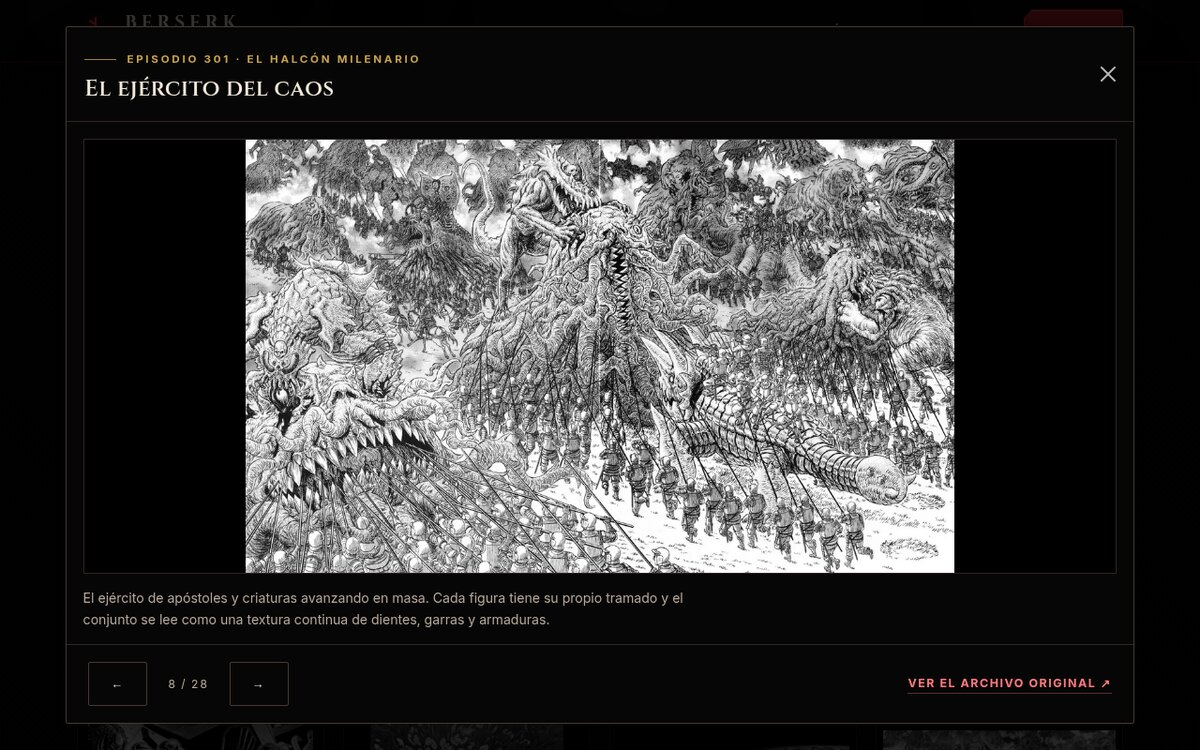
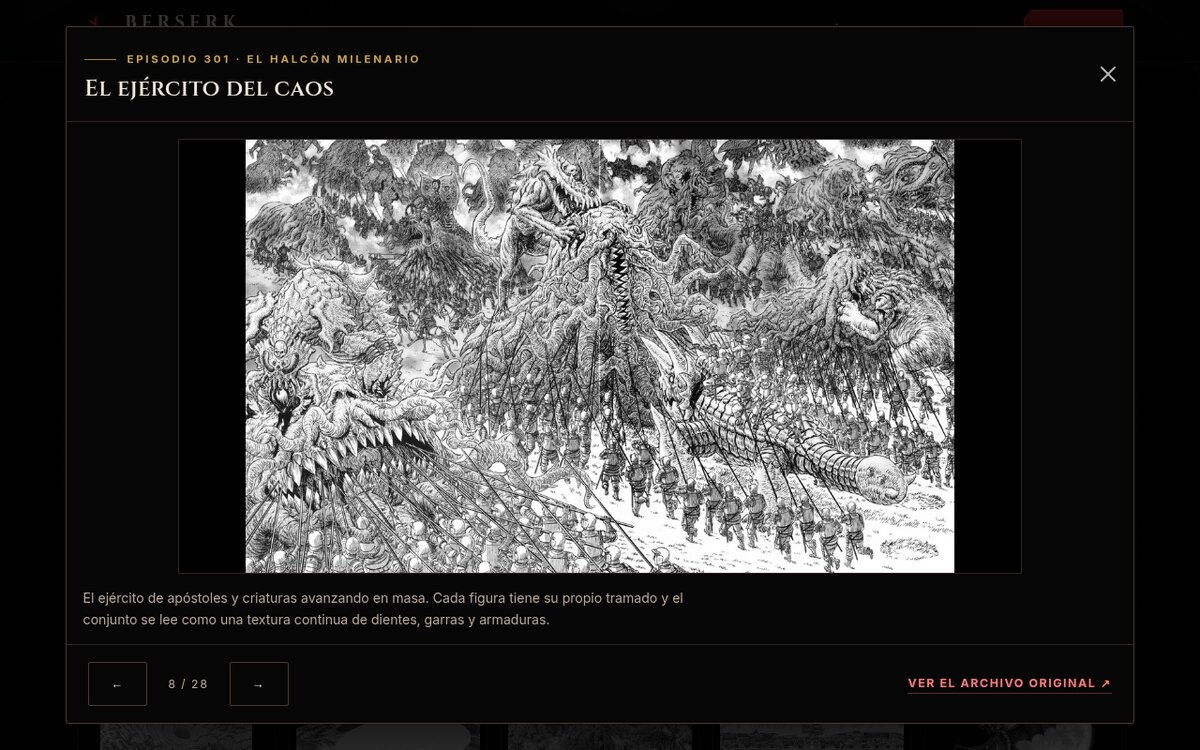
Reducir el tamaño de las láminas y del visor
- Rejilla más densa: 6 columnas en pantallas grandes, 5, 4, 3 y 2
  según el ancho, con tarjetas de ~200 px y el mismo margen
- Episodio en un cuadrito sobre la esquina de la imagen y arco en
  pastilla debajo, para que todas las tarjetas midan lo mismo
- Títulos a 2 líneas (3 en móvil) sin recortes ni saltos de altura
- Visor limitado a 900 px para no ampliar la imagen más allá de su
  resolución real
- Capturas del README actualizadas

Changed region(s): [[0.0617, 0.9507, 0.4008, 1.0], [0.4933, 0.9507, 0.7708, 1.0], [0.7708, 0.9507, 0.925, 1.0]]

diff --git a/assets/css/estilos.css b/assets/css/estilos.css
@@ -1137,7 +1137,8 @@ strong { color: #fff8ec; }
 
 .emi-galeria-hero__lamina {
   position: relative;
-  margin: 0;
+  max-width: 520px;
+  margin: 0 auto;
   overflow: hidden;
   border: 1px solid var(--emi-borde-claro);
   background: #0a0807;
@@ -1276,8 +1277,8 @@ strong { color: #fff8ec; }
 /* Rejilla uniforme: todas las láminas miden lo mismo, con el mismo margen. */
 .emi-rejilla-paneles {
   display: grid;
-  grid-template-columns: repeat(4, minmax(0, 1fr));
-  gap: 1.25rem;
+  grid-template-columns: repeat(6, minmax(0, 1fr));
+  gap: .9rem;
 }
 
 .emi-lamina {
@@ -1397,6 +1398,19 @@ strong { color: #fff8ec; }
 .emi-pastilla--arco {
   border-color: rgba(201, 162, 74, .45);
   color: var(--emi-oro);
+}
+
+/* Episodio: cuadrito sobre la esquina de la lámina. */
+.emi-pastilla--episodio {
+  position: absolute;
+  top: .55rem;
+  left: .55rem;
+  z-index: 1;
+  border-color: rgba(239, 231, 216, .35);
+  background: rgba(7, 6, 6, .82);
+  color: var(--emi-hueso);
+  -webkit-backdrop-filter: blur(6px);
+  backdrop-filter: blur(6px);
 }
 
 .emi-lamina__titulo {
@@ -1521,6 +1535,8 @@ strong { color: #fff8ec; }
 .emi-visor img {
   display: block;
   width: 100%;
+  max-width: 900px;
+  margin-inline: auto;
   max-height: 58vh;
   object-fit: contain;
   background: #000;
@@ -1546,8 +1562,16 @@ strong { color: #fff8ec; }
   font-variant-numeric: tabular-nums;
 }
 
-/* Adaptación de la galería. */
+/* Adaptación de la galería: muchas columnas, tarjetas pequeñas. */
+@media (max-width: 1399.98px) {
+  .emi-rejilla-paneles { grid-template-columns: repeat(5, minmax(0, 1fr)); }
+}
+
 @media (max-width: 1199.98px) {
+  .emi-rejilla-paneles { grid-template-columns: repeat(4, minmax(0, 1fr)); }
+}
+
+@media (max-width: 991.98px) {
   .emi-rejilla-paneles { grid-template-columns: repeat(3, minmax(0, 1fr)); }
 }
 
@@ -1555,9 +1579,16 @@ strong { color: #fff8ec; }
   .emi-rejilla-paneles { grid-template-columns: repeat(2, minmax(0, 1fr)); }
   .emi-cinta__pista img { width: 88px; height: 88px; }
   .emi-galeria-hero__lamina { margin-top: .5rem; }
+  /* Pastillas y títulos compactos: todo cabe y las tarjetas no crecen. */
+  .emi-pastilla { padding: .18rem .4rem; font-size: .53rem; letter-spacing: .06em; }
+  .emi-lamina__titulo {
+    font-size: .92rem;
+    -webkit-line-clamp: 3;
+    min-height: 3.75em;
+  }
 }
 
-@media (max-width: 479.98px) {
+@media (max-width: 359.98px) {
   .emi-rejilla-paneles { grid-template-columns: 1fr; }
   .emi-toolbar-galeria { align-items: stretch; }
 }

diff --git a/assets/js/galeria.js b/assets/js/galeria.js
@@ -72,7 +72,7 @@
     var imagen = document.createElement("img");
     imagen.src = panel.archivo + "-min.webp";
     imagen.srcset = panel.archivo + "-min.webp 520w, " + panel.archivo + ".webp 1100w";
-    imagen.sizes = "(min-width: 1200px) 23vw, (min-width: 768px) 31vw, (min-width: 480px) 46vw, 92vw";
+    imagen.sizes = "(min-width: 1400px) 16vw, (min-width: 1200px) 19vw, (min-width: 992px) 23vw, (min-width: 768px) 31vw, (min-width: 480px) 46vw, 92vw";
     imagen.width = panel.ancho;
     imagen.height = panel.alto;
     imagen.alt = panel.alt;
@@ -84,7 +84,11 @@
     lupa.setAttribute("aria-hidden", "true");
     lupa.textContent = "⤢";
 
-    media.append(imagen, lupa);
+    var episodio = document.createElement("span");
+    episodio.className = "emi-pastilla emi-pastilla--episodio";
+    episodio.textContent = etiquetaEpisodio(panel);
+
+    media.append(imagen, lupa, episodio);
 
     var cuerpo = document.createElement("div");
     cuerpo.className = "emi-lamina__cuerpo";
@@ -92,15 +96,11 @@
     var meta = document.createElement("p");
     meta.className = "emi-lamina__meta";
 
-    var episodio = document.createElement("span");
-    episodio.className = "emi-pastilla";
-    episodio.textContent = etiquetaEpisodio(panel);
-
     var arco = document.createElement("span");
     arco.className = "emi-pastilla emi-pastilla--arco";
     arco.textContent = nombreArco(panel.arco);
 
-    meta.append(episodio, arco);
+    meta.append(arco);
 
     var titulo = document.createElement("h3");
     titulo.className = "emi-lamina__titulo";

diff --git a/README.md b/README.md
@@ -195,8 +195,8 @@ episodio, su arco y un comentario breve sobre cómo está resuelta.
 
 | Portada de la galería | Rejilla filtrada por arcos |
 | :--: | :--: |
-| <img src="assets/readme/preview-galeria.jpg" alt="Portada de la galería con una doble página de Femto y el Caballero Calavera" width="100%"/> | <img src="assets/readme/preview-rejilla.jpg" alt="Rejilla de paneles en cuatro columnas con filtros por arco" width="100%"/> |
-| **Lámina de apertura** con zoom lento y cinta de miniaturas | **Tarjetas iguales de 4 → 1 columnas** con filtros y contador en vivo |
+| <img src="assets/readme/preview-galeria.jpg" alt="Portada de la galería con una doble página de Femto y el Caballero Calavera" width="100%"/> | <img src="assets/readme/preview-rejilla.jpg" alt="Rejilla de paneles en cinco columnas con filtros por arco" width="100%"/> |
+| **Lámina de apertura** con zoom lento y cinta de miniaturas | **Tarjetas pequeñas de 6 → 1 columnas** con filtros y contador en vivo |
 
 <img src="assets/readme/preview-visor.jpg" alt="Panel abierto en el visor ampliado con su descripción y el enlace a la fuente" width="92%"/>
 
@@ -211,7 +211,7 @@ enlace al archivo original de la wiki.
 |---|---|
 | 🗃 **Datos** | `assets/js/paneles.js` guarda los 28 paneles: id, título, episodio, arco, medidas, texto alternativo, comentario y fuente |
 | 🏷 **Filtros** | Un botón por arco con su recuento; «Todos» vuelve a la colección completa y el estado vacío ofrece limpiar el filtro |
-| 🧱 **Rejilla uniforme** | `grid` de 4 a 1 columnas; todas las tarjetas miden lo mismo (marco 4:3 con margen interior) y el panel entra completo, sin recortes |
+| 🧱 **Rejilla uniforme** | `grid` de 6 a 1 columnas; tarjetas pequeñas e idénticas (marco 4:3 con margen interior) y el panel entra completo, sin recortes |
 | 🔍 **Visor** | Modal de Bootstrap con la imagen a tamaño completo, anterior y siguiente, contador `n / 28` y enlace al archivo de origen |
 | ⌨ **Teclado** | `←` y `→` cambian de panel con el visor abierto; `Esc` lo cierra; el foco queda atrapado en el modal |
 | 🔗 **Enlace directo** | `galeria.html?panel=eclipse` abre esa lámina al cargar; al cerrar, la URL se limpia sola |
